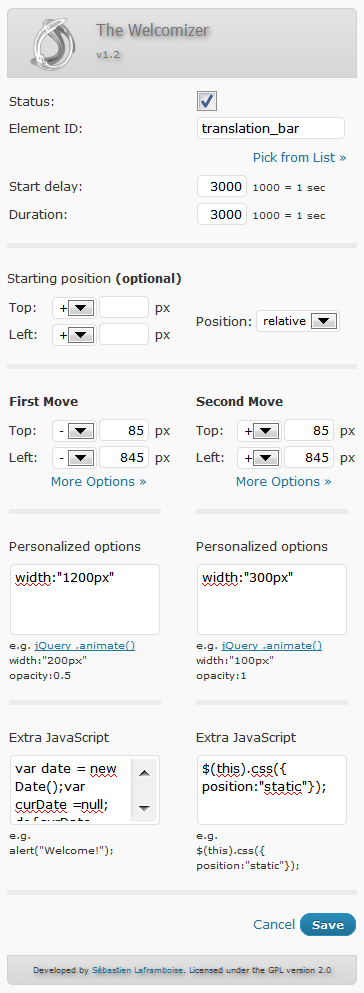
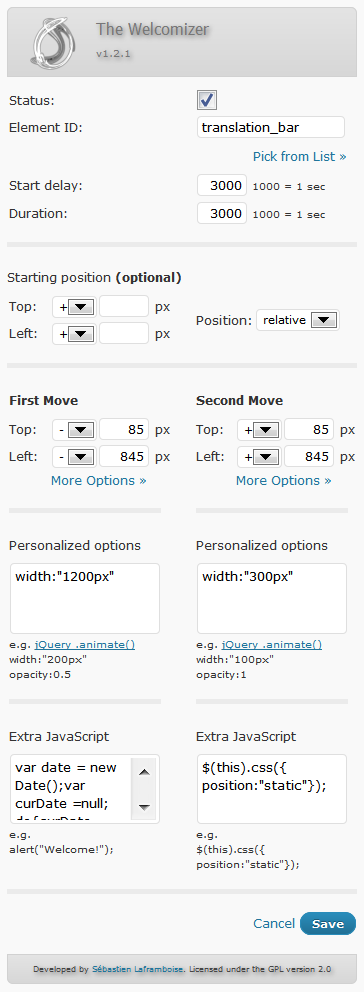
git-svn-id: https://plugins.svn.wordpress.org/the-welcomizer/trunk@331184 b8457f37-d9ea-0310-8a92-e5e31aec5664

diff --git a/includes/twiz.class.php b/includes/twiz.class.php
@@ -53,7 +53,7 @@ class Twiz{
 		$this->plugin_name = __('The Welcomizer', 'the-welcomizer');
 		$this->plugin_url  = get_option('siteurl').'/wp-content/plugins/the-welcomizer';
 		$this->table 	   = $wpdb->prefix .'the_welcomizer';
-		$this->version 	   = 'v1.2';
+		$this->version 	   = 'v1.2.1';
 		$this->dbversion   = 'v1.0';
 		$this->logoUrl 	   = '/images/twiz-logo.png';
 	}
@@ -390,10 +390,17 @@ var bind_Number_Restriction = function() {
 	background-color:#F7F7F7;
 }
 .twiz-td-action{
-	width:68px;
+	min-width:50px;
 }
 .twiz-td-action img{
 	margin:2px;
+}
+.twiz-td-duration{
+	min-width:50px;
+}
+.twiz-xx{
+	font-size:8px;
+	color:green;
 }
 </style>';
 		
@@ -405,15 +412,19 @@ var bind_Number_Restriction = function() {
 		
 		$htmllist = $csscript.$opendiv.'<table class="twiz-table-list" cellspacing="0">';
 		
-		$htmllist.= '<tr class="twiz-table-list-tr-h twiz-td-center"><td class="twiz-table-list-td-h">'.__('Status', 'the-welcomizer').'</td><td class="twiz-table-list-td-h twiz-td-left" nowrap>'.__('Element ID', 'the-welcomizer').'</td><td class="twiz-table-list-td-h twiz-td-right">'.__('Delay', 'the-welcomizer').' <b>&#8681;</b></td><td class="twiz-table-list-td-h twiz-td-right">'.__('Duration', 'the-welcomizer').'</td><td class="twiz-table-list-td-h twiz-td-right">'.__('Action', 'the-welcomizer').'</td></tr>';
+		$htmllist.= '<tr class="twiz-table-list-tr-h twiz-td-center"><td class="twiz-table-list-td-h">'.__('Status', 'the-welcomizer').'</td><td class="twiz-table-list-td-h twiz-td-left" nowrap>'.__('Element ID', 'the-welcomizer').'</td><td class="twiz-table-list-td-h twiz-td-right" nowrap>'.__('Delay', 'the-welcomizer').' <b>&#8681;</b></td><td class="twiz-table-list-td-h twiz-td-right twiz-td-duration" nowrap>'.__('Duration', 'the-welcomizer').'</td><td class="twiz-table-list-td-h  twiz-td-action" nowrap>'.__('Action', 'the-welcomizer').'</td></tr>';
 		
 		 foreach($listarray as $key=>$value){
 			
 			$rowcolor= ($rowcolor=='twiz-row-color-1')?'twiz-row-color-2':'twiz-row-color-1';
 			
 			$statushtmlimg = ($value['status']=='1')? $this->getHtmlImgStatus($value['id'], 'active'):$this->getHtmlImgStatus($value['id'], 'inactive');
-		
-			$htmllist.= '<tr class="'.$rowcolor.'" name="twiz_list_tr_'.$value['id'].'" id="twiz_list_tr_'.$value['id'].'" ><td class="twiz-td-center" id="twiz_td_status_'.$value['id'].'">'.$statushtmlimg.'</td><td class="twiz-td-left">'.$value['layer_id'].'</td><td class="twiz-td-right">'.$value['start_delay'].'</td><td class="twiz-td-right">'.$value['duration'].'</td><td class="twiz-td-right twiz-td-action"><img  src="'.$this->plugin_url.'/images/twiz-save.gif" id="twiz_img_edit_'.$value['id'].'" name="twiz_img_edit_'.$value['id'].'" class="twiz-loading-gif"><img id="twiz_edit_'.$value['id'].'" name="twiz_edit_'.$value['id'].'" alt="'.__('Edit', 'the-welcomizer').'" title="'.__('Edit', 'the-welcomizer').'" src="'.$this->plugin_url.'/images/twiz-edit.gif" height="25"/> <img height="25" src="'.$this->plugin_url.'/images/twiz-delete.gif" id="twiz_delete_'.$value['id'].'" name="twiz_delete_'.$value['id'].'" alt="'.__('Delete', 'the-welcomizer').'" title="'.__('Delete', 'the-welcomizer').'"/><img class="twiz-loading-gif" src="'.$this->plugin_url.'/images/twiz-save.gif" id="twiz_img_delete_'.$value['id'].'" name="twiz_img_delete_'.$value['id'].'"></td></tr>';
+			
+			/* add a '2x' to the duration if necessary */
+			$duration = (($value['move_top_pos_b'] !='' ) or( $value['move_left_pos_b'] !='' ) or( $value['options_b'] !='' ) or( $value['extra_js_b'] !='' ))?$value['duration'].'<b class="twiz-xx"> x2</b>':$value['duration'];
+
+			/* the table row */
+			$htmllist.= '<tr class="'.$rowcolor.'" name="twiz_list_tr_'.$value['id'].'" id="twiz_list_tr_'.$value['id'].'" ><td class="twiz-td-center" id="twiz_td_status_'.$value['id'].'">'.$statushtmlimg.'</td><td class="twiz-td-left">'.$value['layer_id'].'</td><td class="twiz-td-right">'.$value['start_delay'].'</td><td class="twiz-td-right" nowrap>'.$duration.'</td><td class="twiz-td-right" nowrap><img  src="'.$this->plugin_url.'/images/twiz-save.gif" id="twiz_img_edit_'.$value['id'].'" name="twiz_img_edit_'.$value['id'].'" class="twiz-loading-gif"><img id="twiz_edit_'.$value['id'].'" name="twiz_edit_'.$value['id'].'" alt="'.__('Edit', 'the-welcomizer').'" title="'.__('Edit', 'the-welcomizer').'" src="'.$this->plugin_url.'/images/twiz-edit.gif" height="25"/> <img height="25" src="'.$this->plugin_url.'/images/twiz-delete.gif" id="twiz_delete_'.$value['id'].'" name="twiz_delete_'.$value['id'].'" alt="'.__('Delete', 'the-welcomizer').'" title="'.__('Delete', 'the-welcomizer').'"/><img class="twiz-loading-gif" src="'.$this->plugin_url.'/images/twiz-save.gif" id="twiz_img_delete_'.$value['id'].'" name="twiz_img_delete_'.$value['id'].'"></td></tr>';
 		 
 		 }
 		 
@@ -897,8 +908,13 @@ line-height:15px;
 		$twiz_start_top_position 	= ($twiz_start_top_position=='')?'NULL':$twiz_start_top_position;
 		$twiz_start_left_position 	= ($twiz_start_left_position=='')?'NULL':$twiz_start_left_position;
 		
+		/* user syntax auto correction */ 
 		$twiz_options_a = str_replace("=", ":" , attribute_escape(trim($_POST['twiz_options_a'])));
 		$twiz_options_b = str_replace("=", ":" , attribute_escape(trim($_POST['twiz_options_b'])));
+		$twiz_options_a = str_replace("'", "\"" , attribute_escape(trim($_POST['twiz_options_a'])));	
+		$twiz_options_b = str_replace("'", "\"" , attribute_escape(trim($_POST['twiz_options_b'])));
+		$twiz_extra_js_a = str_replace("'", "\"" , attribute_escape(trim($_POST['twiz_extra_js_a'])));	
+		$twiz_extra_js_b = str_replace("'", "\"" , attribute_escape(trim($_POST['twiz_extra_js_b'])));
 		
 		if($id==""){ // add new
 

diff --git a/twiz-index.php b/twiz-index.php
@@ -1,7 +1,7 @@
 <?
 /*
 Plugin Name: The Welcomizer
-Version: 1.2
+Version: 1.2.1
 Plugin URI: http://www.sebastien-laframboise.com/wordpress/plugins-wordpress/the-welcomizer
 Description: Currently triggered on the home page, this plugin helps you to easily add 'Smart' moves and jQuery effects to almost any HTML element that have an ID attribute(e.g. div id="sidebar"). Enjoy!
 Author: Sebastien Laframboise
